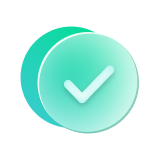
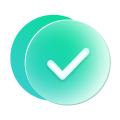
Result illustrations: Dan's PNG set (error, success, warning, pending) for withdraw result, modify-amount / disable sheets, OTC and passkey results, and the PD result pages
Claude-Session: https://claude.ai/code/session_01Qqdcu5gqMTkpqmYQRkdzYH

diff --git a/PdFlow.jsx b/PdFlow.jsx
@@ -138,28 +138,10 @@ const Banner = ({ g, onAction, flush }) =>
     </div>
   ) : null;
 
+// Result illustrations (2026-11-16, PNGs from Dan: they have a soft background)
+const ILLO = { ok: "result-success", warn: "result-warning", clock: "result-pending", error: "result-error" };
 const Illo = ({ kind }) => (
-  <div className={`pd-illo is-${kind}`} aria-hidden="true">
-    <span className="pd-illo-back" />
-    <span className="pd-illo-front">
-      {kind === "warn" && (
-        <svg width="40" height="40" viewBox="0 0 40 40">
-          <path d="M20 9v14" stroke="#fff" strokeWidth="4" strokeLinecap="round" />
-          <circle cx="20" cy="30" r="2.6" fill="#fff" />
-        </svg>
-      )}
-      {kind === "ok" && (
-        <svg width="40" height="40" viewBox="0 0 40 40">
-          <path d="M11 21l6 6 12-13" fill="none" stroke="#fff" strokeWidth="4" strokeLinecap="round" strokeLinejoin="round" />
-        </svg>
-      )}
-      {kind === "clock" && (
-        <svg width="40" height="40" viewBox="0 0 40 40">
-          <path d="M20 10v11l6 6" fill="none" stroke="#fff" strokeWidth="3.5" strokeLinecap="round" strokeLinejoin="round" />
-        </svg>
-      )}
-    </span>
-  </div>
+  <img className="pd-illo-img" src={`${import.meta.env.BASE_URL}images/otc/${ILLO[kind]}.png`} width="120" height="120" alt="" aria-hidden="true" />
 );
 
 // Bottom sheet over the PD screens.

diff --git a/DepositFlow.jsx b/DepositFlow.jsx
@@ -2010,7 +2010,7 @@ const WResultPage = ({ onDone, onHistory, d, split = false }) => (
     {/* Content as Figma 18342:150106 (a sheet there; a page here) */}
     <div className="oc-page-body dp-body dp-result">
       {/* Result icon: pending (2026-11-16, from Dan) */}
-      <img className="dp-result-icon" src={`${IMG}/result_pending.svg`} width="120" height="120" alt="" />
+      <img className="dp-result-icon" src={`${IMG}/result-pending.png`} width="120" height="120" alt="" />
       <h2>Awaiting approval</h2>
       <p className="dp-result-msg">Withdrawal request submitted. You will be notified once the withdrawal is complete. View your history for the latest updates.</p>
     </div>

diff --git a/PasskeySetup.jsx b/PasskeySetup.jsx
@@ -245,7 +245,7 @@ export default function PasskeySetup({ open, onClose, onSetUp, platform = "ios",
           </header>
           {done ? (
             <div className="oc-page-body pk-body pk-done">
-              <img src={`${IMG}/passkey/result-success.svg`} width="120" height="120" alt="" />
+              <img src={`${IMG}/otc/result-success.png`} width="120" height="120" alt="" />
               <h2>Passkey added successfully</h2>
               <p>You have successfully linked a passkey</p>
             </div>
